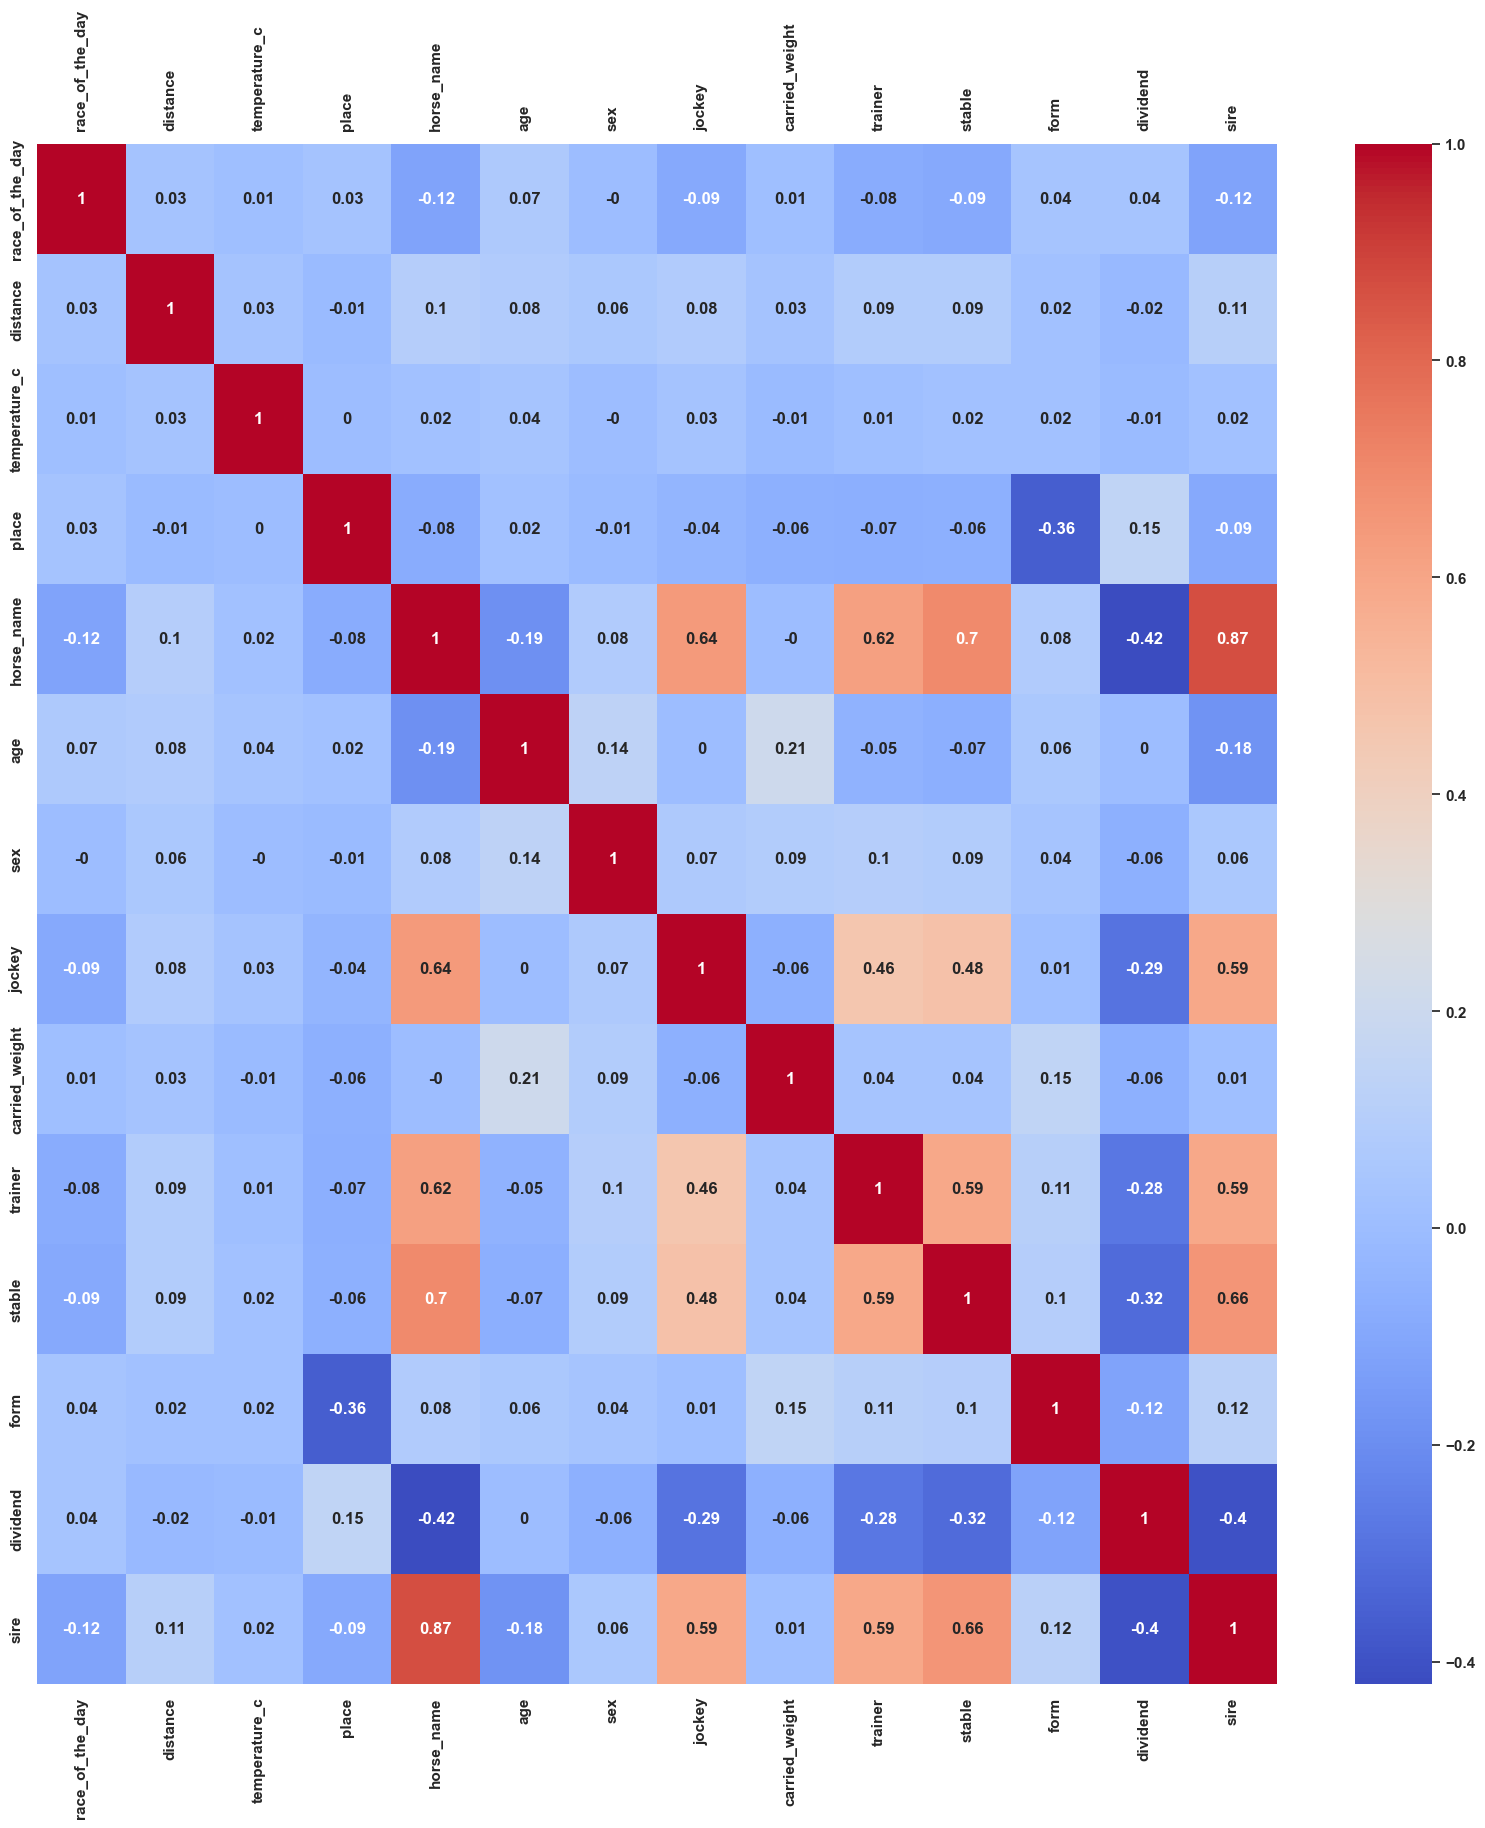
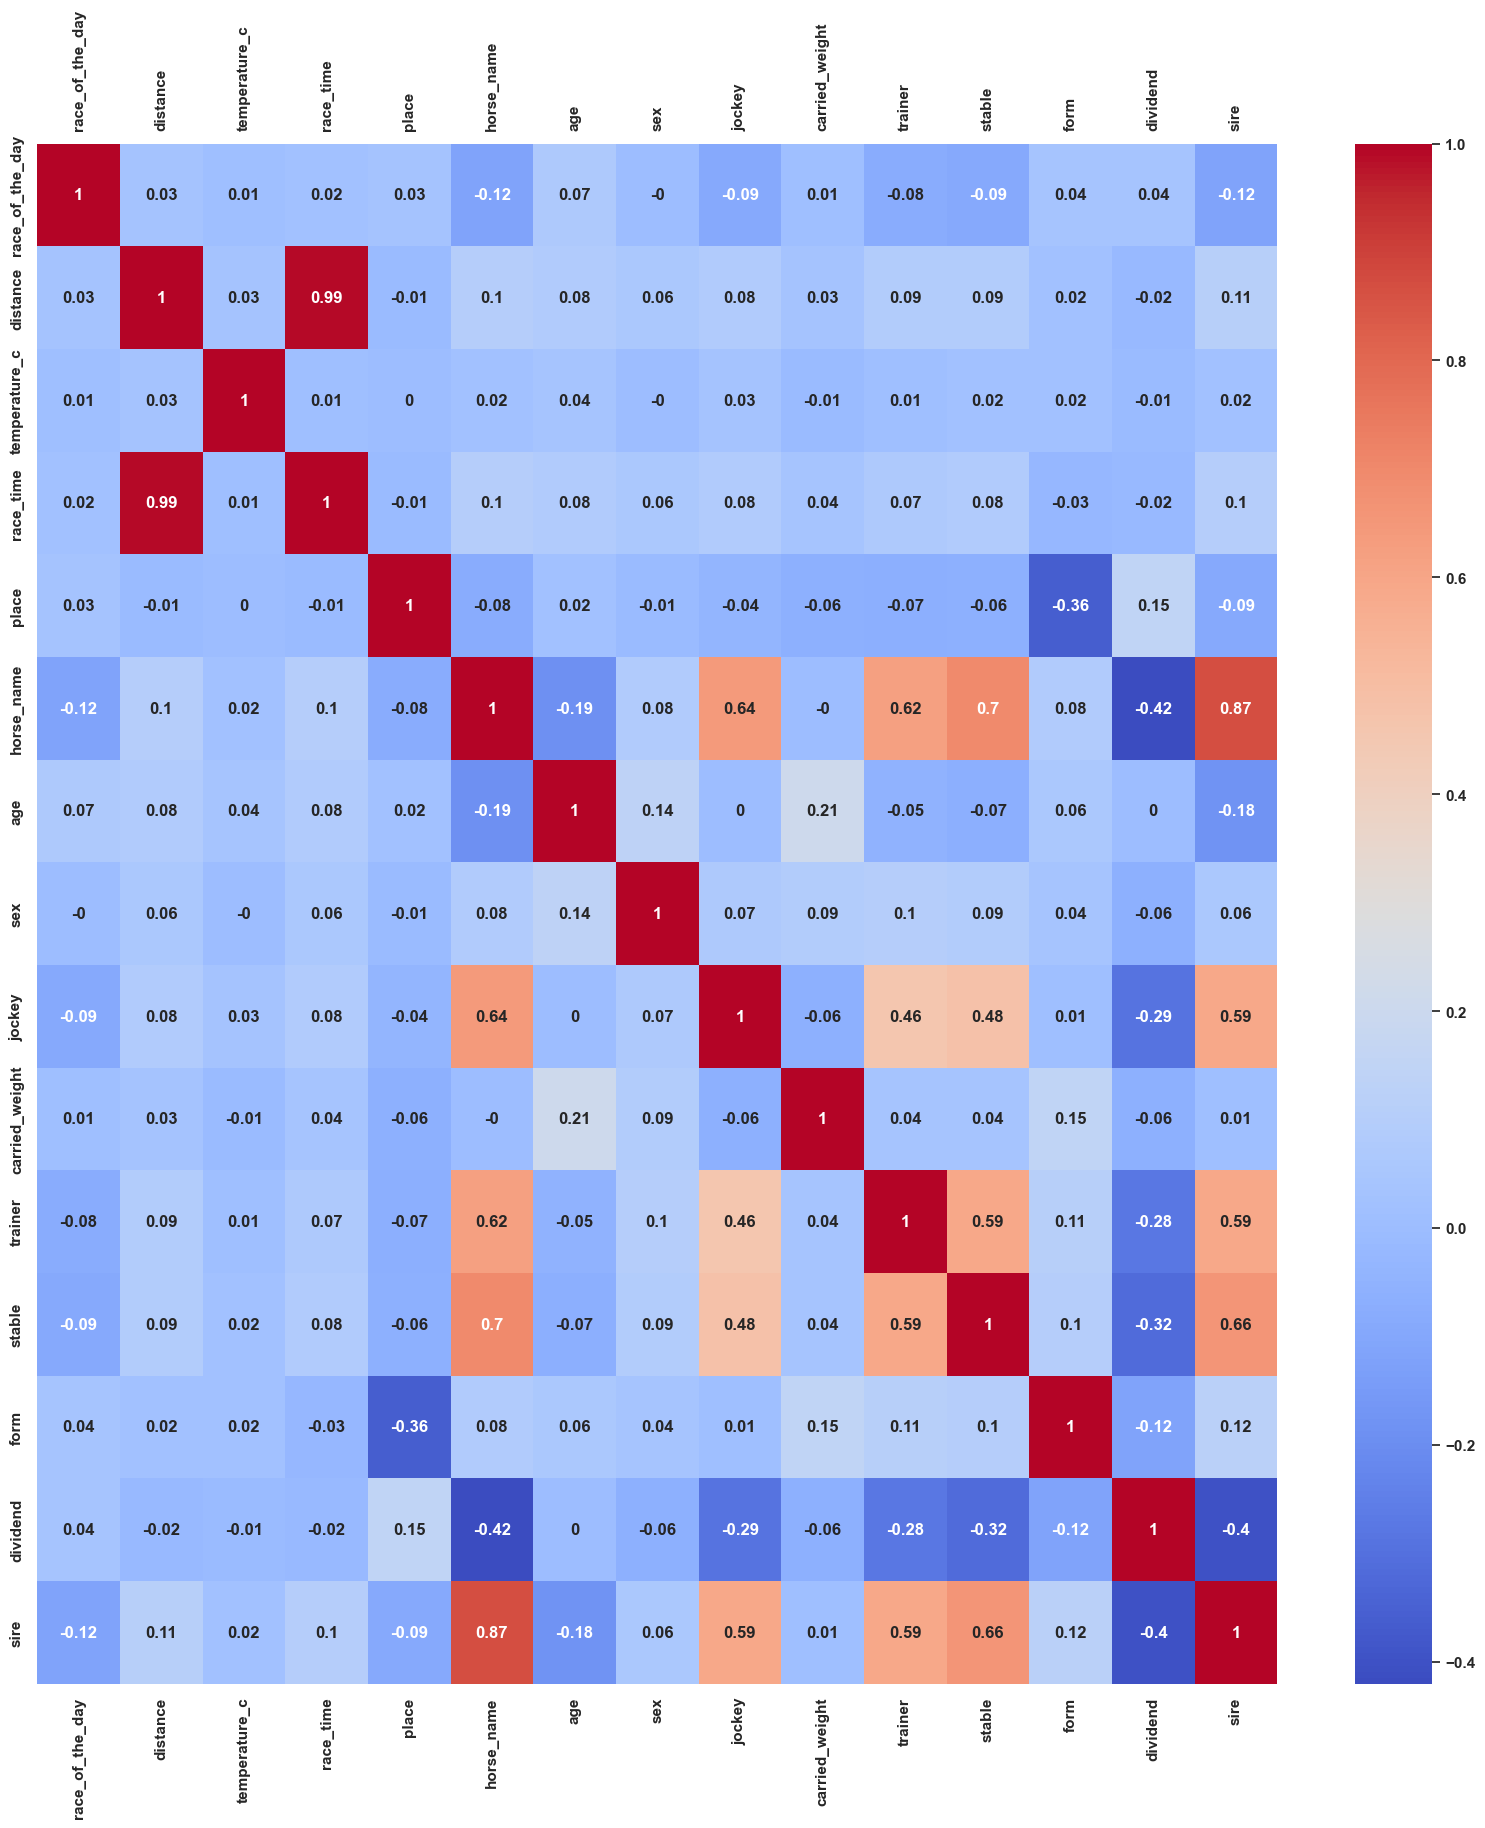
Custom dataloader

diff --git a/nn_training.py b/nn_training.py
@@ -5,6 +5,7 @@ import torch.optim as optim
 import matplotlib.pyplot as plt
 from torch.utils.data import DataLoader, Subset
 from sklearn.model_selection import train_test_split
+from torch.nn.utils.rnn import pad_sequence
 
 from custom_model import CustomModel
 from custom_dataset import CustomDataset
@@ -26,9 +27,9 @@ def nnTraining(dataset, output_size):
   test_dataset  = CustomDataset(test)
 
   # The bacth size refers to the number of horses in a batch
-  dataloader_train = DataLoader(train_dataset, batch_size=200, shuffle=True)
-  dataloader_val = DataLoader(val_dataset, batch_size=200, shuffle=True)
-  dataloader_test = DataLoader(test_dataset, batch_size=200, shuffle=False)
+  dataloader_train = DataLoader(train_dataset, batch_size=200, shuffle=True, collate_fn=collate_fn)
+  dataloader_val = DataLoader(val_dataset, batch_size=200, shuffle=True, collate_fn=collate_fn)
+  dataloader_test = DataLoader(test_dataset, batch_size=200, shuffle=False, collate_fn=collate_fn)
   
   input_size = CustomDataset.input_size
   hidden_size = 64
@@ -79,22 +80,30 @@ def nnTraining(dataset, output_size):
 
   best_model = model.load_state_dict(best_model_wts)
 
-def do_validation(model, lossfn, dataLoader):
-  model.eval()
-  with torch.no_grad():
-    for x_batch, y_batch in dataLoader:
-      val_outputs = model(x_batch)
-      val_loss = lossfn(val_outputs, y_batch)
-
-  return val_loss
-
 def do_training(model, lossfn, optimizer, dataloader):
-  for x_batch, y_batch in dataloader:
+  for x_batch, lengths, y_batch in dataloader:
     model.train()
     optimizer.zero_grad()
-    outputs = model(x_batch)
+    outputs = model(x_batch, lengths)
     loss = lossfn(outputs, y_batch)
     loss.backward()
     optimizer.step()
 
   return loss
+
+def do_validation(model, lossfn, dataLoader):
+  model.eval()
+  with torch.no_grad():
+    for x_batch, lengths, y_batch in dataLoader:
+      val_outputs = model(x_batch, lengths)
+      val_loss = lossfn(val_outputs, y_batch)
+
+  return val_loss
+
+def collate_fn(batch):
+  sequences, targets = zip(*batch)
+  seq_lengths = torch.tensor([seq.size(0) for seq in sequences], dtype=torch.long)
+  padded_sequences = pad_sequence(sequences, batch_first=True)
+  targets = torch.stack(targets)
+
+  return padded_sequences, seq_lengths, targets

diff --git a/preprocessing.py b/preprocessing.py
@@ -1,13 +1,13 @@
 import pandas as pd
-from helper_functions import conversion, NameHolder, standardize
+from helper_functions import conversion, NameHolder, standardize, parse_race_time
 from helper_variables import place_match, sex_match
 import csv
+import numpy as np
 from pathlib import Path
 
 def preprocess_data(data) -> pd.DataFrame:
   data.drop(columns=[
   'date',
-  'race_time',
   'start_time',
   'versenykiiras',
   'race_name', 
@@ -26,6 +26,7 @@ def preprocess_data(data) -> pd.DataFrame:
   data['place'] = data.loc[data['place'] > 0, ['place']]
   data = data[data['place'].notna()]
   data['sex'] = data['sex'].apply(conversion, args=(sex_match,))
+  data['race_time'] = data['race_time'].apply(parse_race_time)  
 
   jocky_names = NameHolder(data['jockey'])
   horse_names = NameHolder(data['horse_name'])
@@ -55,9 +56,9 @@ def preprocess_data(data) -> pd.DataFrame:
   data['sire'] = data['sire'].apply(conversion, args=(sire_names.names,))
 
   data[[
-    'distance', 'dividend', 'jockey', 'horse_name', 'trainer', 'stable', 'sire'
+    'distance', 'dividend', 'jockey', 'trainer', 'stable', 'sire'
     ]] = data[[
-      'distance', 'dividend', 'jockey', 'horse_name', 'trainer', 'stable', 'sire'
+      'distance', 'dividend', 'jockey', 'trainer', 'stable', 'sire'
       ]].apply(standardize)
   
   return data
@@ -79,13 +80,19 @@ def vectorize_data(dataframe):
     with the list of their races and feautres
   '''
 
-  print('now vectorizing')
-  raise NotImplementedError('Vectorization not implemented yet')
-
   horses = {}
   for _, row in dataframe.iterrows():
-    horse_name = row['horse_name']
-    if horse_name in horses:
-      horses[horse_name].append(row)
+    horse = row['horse_name']
+    time = row['race_time']
+
+    race_vector = np.append(
+          row.drop(["horse_name", "race_time"]).to_numpy(),
+          time
+      )
+
+    if horse in horses:
+        horses[horse].append(race_vector)
     else:
-      horses[horse_name] = [row.to_numpy()]
+        horses[horse] = [race_vector]
+
+  return list(horses.values())

diff --git a/custom_model.py b/custom_model.py
@@ -1,5 +1,6 @@
 import torch
 from torch import nn
+from torch.nn.utils.rnn import pack_padded_sequence
 
 class CustomModel(nn.Module):
   def __init__(self, input_size, hidden_size, num_layers, output_size, device):
@@ -11,14 +12,15 @@ class CustomModel(nn.Module):
     self.lstm = nn.LSTM(input_size, hidden_size, num_layers, batch_first=True)
     self.fc = nn.Linear(hidden_size, output_size)
 
-  def forward(self, x):
+  def forward(self, x, lengths):
     '''Initial hidden and cell states'''
     h0 = torch.zeros(self.num_layers, x.size(0), self.hidden_size).to(self.device)
     c0 = torch.zeros(self.num_layers, x.size(0), self.hidden_size).to(self.device)
 
-    '''Forward propagate LSTM'''
-    out, (hn, _) = self.lstm(x, (h0, c0))
+    '''Forward propagate LSTM without the PAD steps'''
+    packed = pack_padded_sequence(x, lengths.cpu(), batch_first=True, enforce_sorted=False)
+    _, (hn, _) = self.lstm(packed, (h0, c0))
     self.last_ht = hn[-1]
 
-    out = self.fc(out[:, -1, :])
+    out = self.fc(self.last_ht)
     return out

diff --git a/custom_dataset.py b/custom_dataset.py
@@ -1,14 +1,19 @@
+import torch
 from torch.utils.data import Dataset
 
 class CustomDataset(Dataset):
   input_size = 0
 
   def __init__(self, dataset):
-    pass
+    self.dataset = dataset
+    CustomDataset.input_size = len(dataset[0][0]) - 1
 
   def __len__(self):
-    pass
+    return len(self.dataset)
 
   def __getitem__(self, index):
-    pass
+    curr_data = self.dataset[index]
+    input_sequence = torch.tensor([race[:-1] for race in curr_data], dtype=torch.float32)
+    target_val = torch.tensor(curr_data[-1][-1], dtype=torch.float32)
+    return input_sequence, target_val
     

diff --git a/horzie.py b/horzie.py
@@ -8,13 +8,7 @@ from nn_training import nnTraining
 
 results = pd.read_csv('./docs/races_2003_2025.csv')
 
-print(results.shape)
-
 data = preprocess_data(results)
-
-print(data.info())
-pd.set_option('display.max_colwidth', None)
-print(data.head())
 
 sns.set_theme(rc = {'figure.figsize':(20,20), 'font.weight': 'bold', 'font.size': 12, 'xtick.labelsize': 14, 'ytick.labelsize': 14, 'xtick.top': True, 'xtick.labeltop': True})
 sns.set_theme(context='notebook', style='darkgrid', palette='deep', font='sans-serif', font_scale=1, color_codes=True, rc=None)

diff --git a/helper_functions.py b/helper_functions.py
@@ -1,3 +1,5 @@
+import pandas as pd
+
 def conversion(x, collection):
   for [key, val] in collection.items():
     if key in str(x):
@@ -7,6 +9,16 @@ def conversion(x, collection):
 
 def standardize(x):
   return (x - x.min()) / (x.max() - x.min())
+
+def parse_race_time(t):
+  if pd.isna(t) or not isinstance(t, str):
+    return float('nan')
+
+  try:
+      minutes, seconds = t.split(':')
+      return int(minutes) * 60 + float(seconds)
+  except Exception:
+      return float('nan')
 
 class NameHolder:
   def __init__(self, collection):
